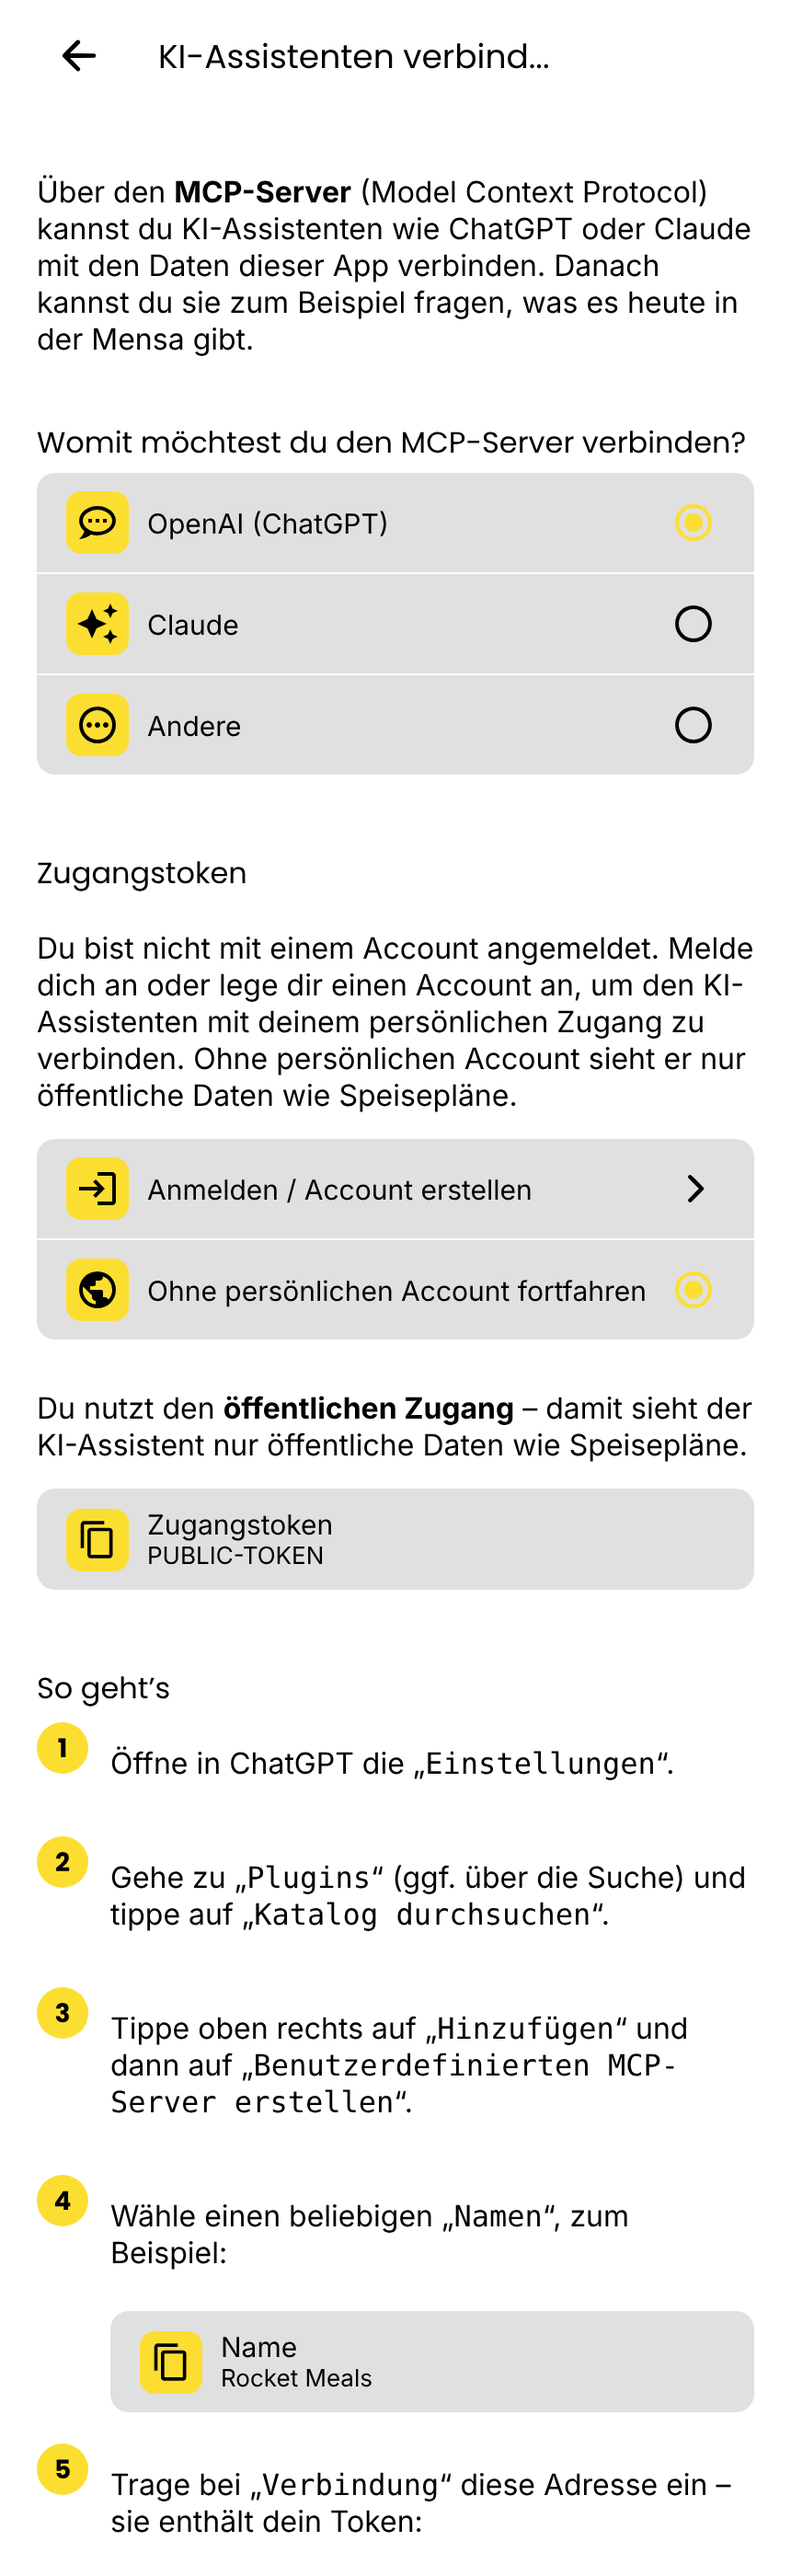
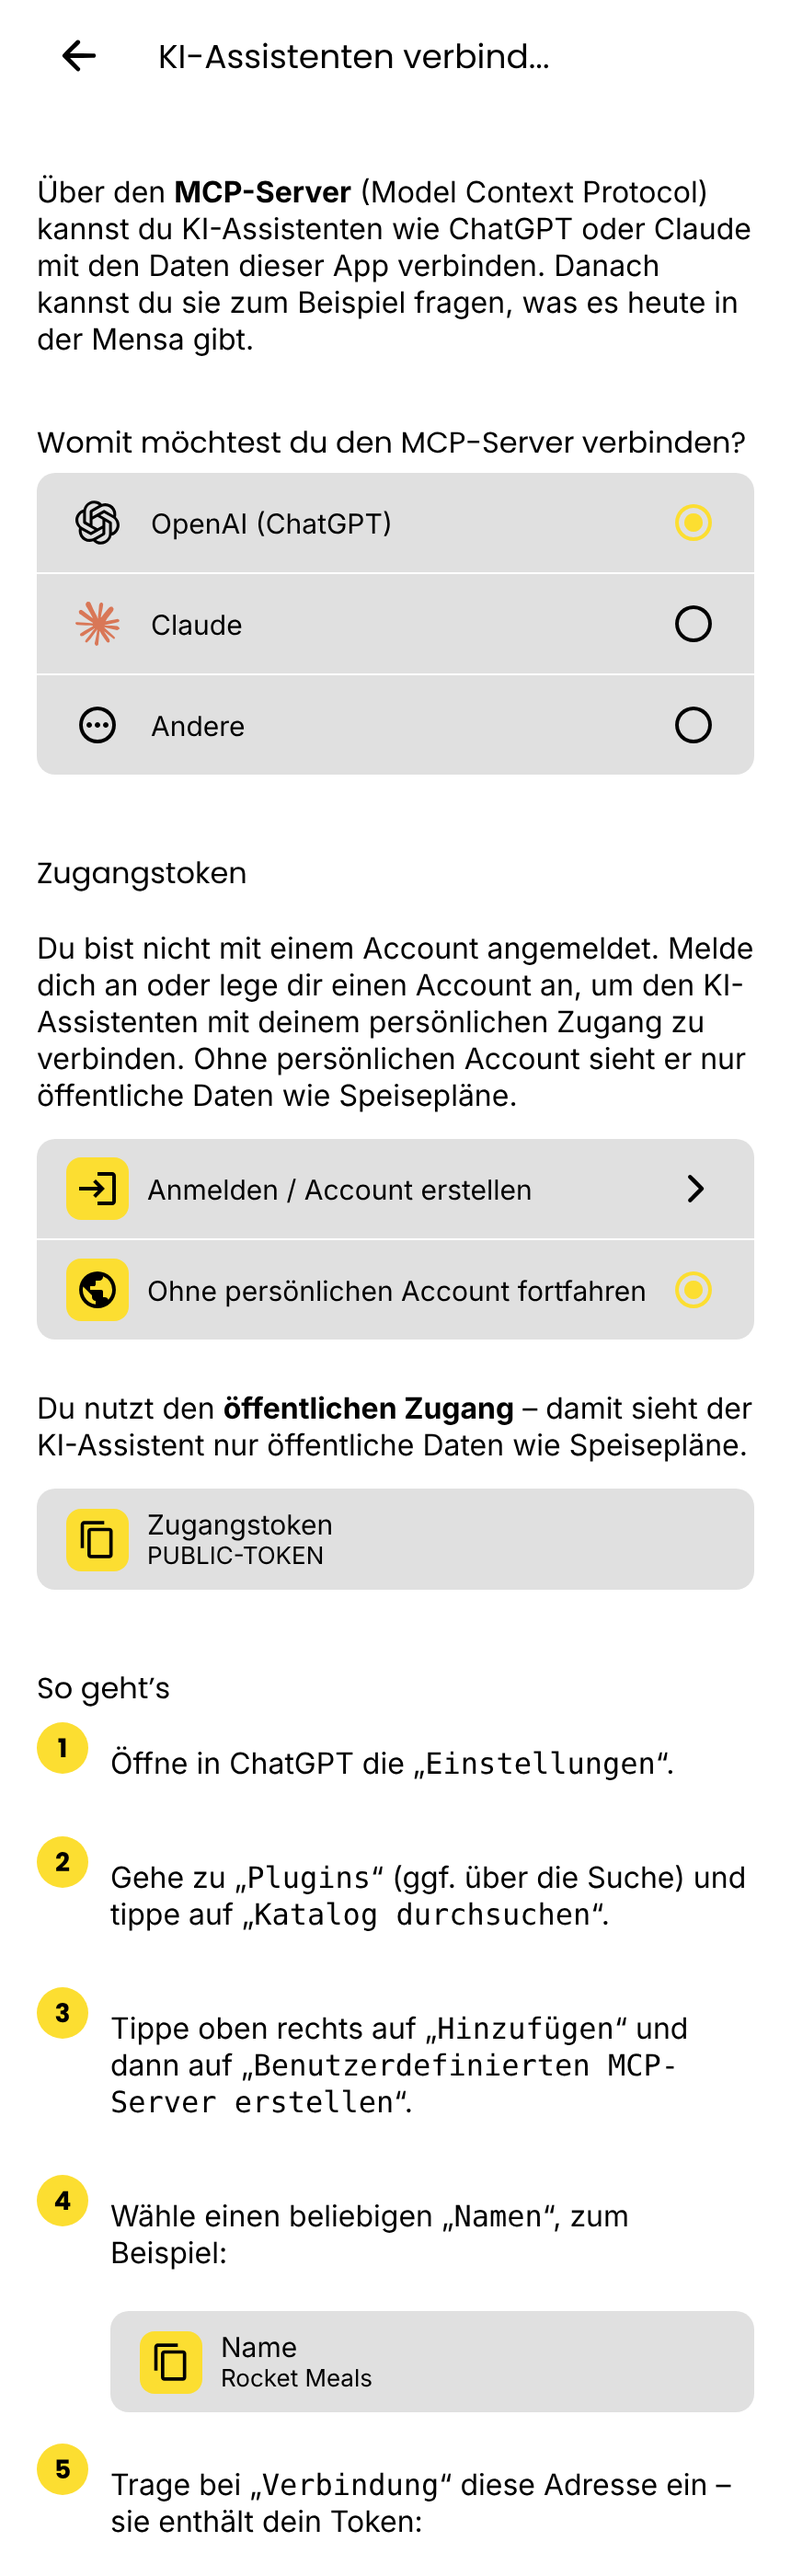
feat(frontend): OpenAI and Claude symbols on the MCP instruction screen
The provider rows show the brands' own symbols (SVGs as published, from
Wikimedia Commons) instead of generic icons, on a neutral background and
no larger than the text next to them. OpenAI's symbol has no colour of its
own and follows the theme's text colour (OpenAI ships it in black and
white). A trademark notice at the bottom says whose marks they are and
that the app is not offered or endorsed by OpenAI or Anthropic.

Claude-Session: https://claude.ai/code/session_01VjtJjNbVttR9DdnJnXU5Zj

Changed region(s): [[0.0605, 0.1864, 0.4837, 0.3107], [0.2116, 0.2796, 0.3023, 0.3107]]

diff --git a/apps/frontend/app/app/public/mcp-instruction/index.tsx b/apps/frontend/app/app/public/mcp-instruction/index.tsx
@@ -20,6 +20,8 @@ import { UserHelper } from '@/helper/UserHelper';
 import { authorizedFetch } from '@/helper/authorizedFetch';
 import { myContrastColor } from '@/helper/ColorHelper';
 import Server from '@/constants/ServerUrl';
+import ClaudeSymbol from '@/assets/icons/brands/claude-symbol.svg';
+import OpenAiSymbol from '@/assets/icons/brands/openai-symbol.svg';
 import { performLogout } from '@/helper/logoutHelper';
 
 type McpProvider = 'claude' | 'openai' | 'other';
@@ -32,11 +34,22 @@ type McpStep = {
 	copy?: CopyValueKind;
 };
 
-const PROVIDER_OPTIONS: { provider: McpProvider; label: string | TranslationKeys; icon: React.ComponentProps<typeof MaterialCommunityIcons>['name'] }[] = [
+type ProviderLogoProps = { size: number; color: string };
+
+/**
+ * Brand symbols, used exactly as the companies provide them and only to identify their service
+ * (OpenAI/Anthropic brand rules) - not recolored, not on our primary color. OpenAI's symbol has no
+ * own color: OpenAI offers it in black and in white, so it takes the text color of the theme.
+ */
+const PROVIDER_OPTIONS: { provider: McpProvider; label: string | TranslationKeys; renderLogo: (props: ProviderLogoProps) => React.ReactNode }[] = [
 	// Brand names, not translated.
-	{ provider: 'openai', label: 'OpenAI (ChatGPT)', icon: 'chat-processing-outline' },
-	{ provider: 'claude', label: 'Claude', icon: 'creation' },
-	{ provider: 'other', label: TranslationKeys.mcp_provider_other, icon: 'dots-horizontal-circle-outline' },
+	{ provider: 'openai', label: 'OpenAI (ChatGPT)', renderLogo: ({ size, color }) => <OpenAiSymbol width={size} height={size} fill={color} /> },
+	{ provider: 'claude', label: 'Claude', renderLogo: ({ size }) => <ClaudeSymbol width={size} height={size} /> },
+	{
+		provider: 'other',
+		label: TranslationKeys.mcp_provider_other,
+		renderLogo: ({ size, color }) => <MaterialCommunityIcons name="dots-horizontal-circle-outline" size={size} color={color} />,
+	},
 ];
 
 const STEPS_BY_PROVIDER: Record<McpProvider, McpStep[]> = {
@@ -324,7 +337,8 @@ const McpInstruction = () => {
 						return (
 							<SettingsList
 								key={option.provider}
-								leftIcon={<MaterialCommunityIcons name={option.icon} size={24} color={theme.screen.icon} />}
+								iconBgColor="transparent"
+								leftIcon={option.renderLogo({ size: 24, color: theme.screen.text })}
 								title={option.provider === 'other' ? translate(option.label) : option.label}
 								rightIcon={renderRadioIcon(option.provider === provider)}
 								handleFunction={() => selectProvider(option.provider)}
@@ -360,6 +374,8 @@ const McpInstruction = () => {
 						</View>
 					</>
 				) : null}
+
+				<Text style={[styles.trademarkNotice, { color: theme.modal.placeholder }]}>{translate(TranslationKeys.mcp_trademark_notice)}</Text>
 			</View>
 		</ScrollView>
 	);
@@ -378,6 +394,11 @@ const styles = StyleSheet.create({
 	},
 	choiceGroup: {
 		marginBottom: 12,
+	},
+	trademarkNotice: {
+		fontSize: 12,
+		fontFamily: 'Poppins_400Regular',
+		marginTop: 10,
 	},
 	step: {
 		marginBottom: 14,

diff --git a/apps/frontend/app/config.ts b/apps/frontend/app/config.ts
@@ -179,7 +179,8 @@ export function getVersionPatch() {
         // 76: MCP instruction screen: ?ai-agent=claude|openai|other preselects the assistant, the user
         //     picks personal or public access (login button without an account), UI labels quoted in monospace
         // 77: the MCP instruction screen's preselect parameter is ?assistant= (?ai-agent= still read)
-        return 77;
+        // 78: MCP instruction screen shows the OpenAI and Claude symbols (unchanged brand assets) with a trademark notice
+        return 78;
 }
 
 export function getVersionInternalForAppsettingsScreen() {

diff --git a/apps/frontend/app/locales/keys.ts b/apps/frontend/app/locales/keys.ts
@@ -815,6 +815,7 @@ export const TranslationKeys = {
 	mcp_access_no_account_hint: 'mcp_access_no_account_hint',
 	mcp_connect_with_account: 'mcp_connect_with_account',
 	mcp_continue_without_account: 'mcp_continue_without_account',
+	mcp_trademark_notice: 'mcp_trademark_notice',
 } as const;
 
 export type TranslationKeys = (typeof TranslationKeys)[keyof typeof TranslationKeys];
